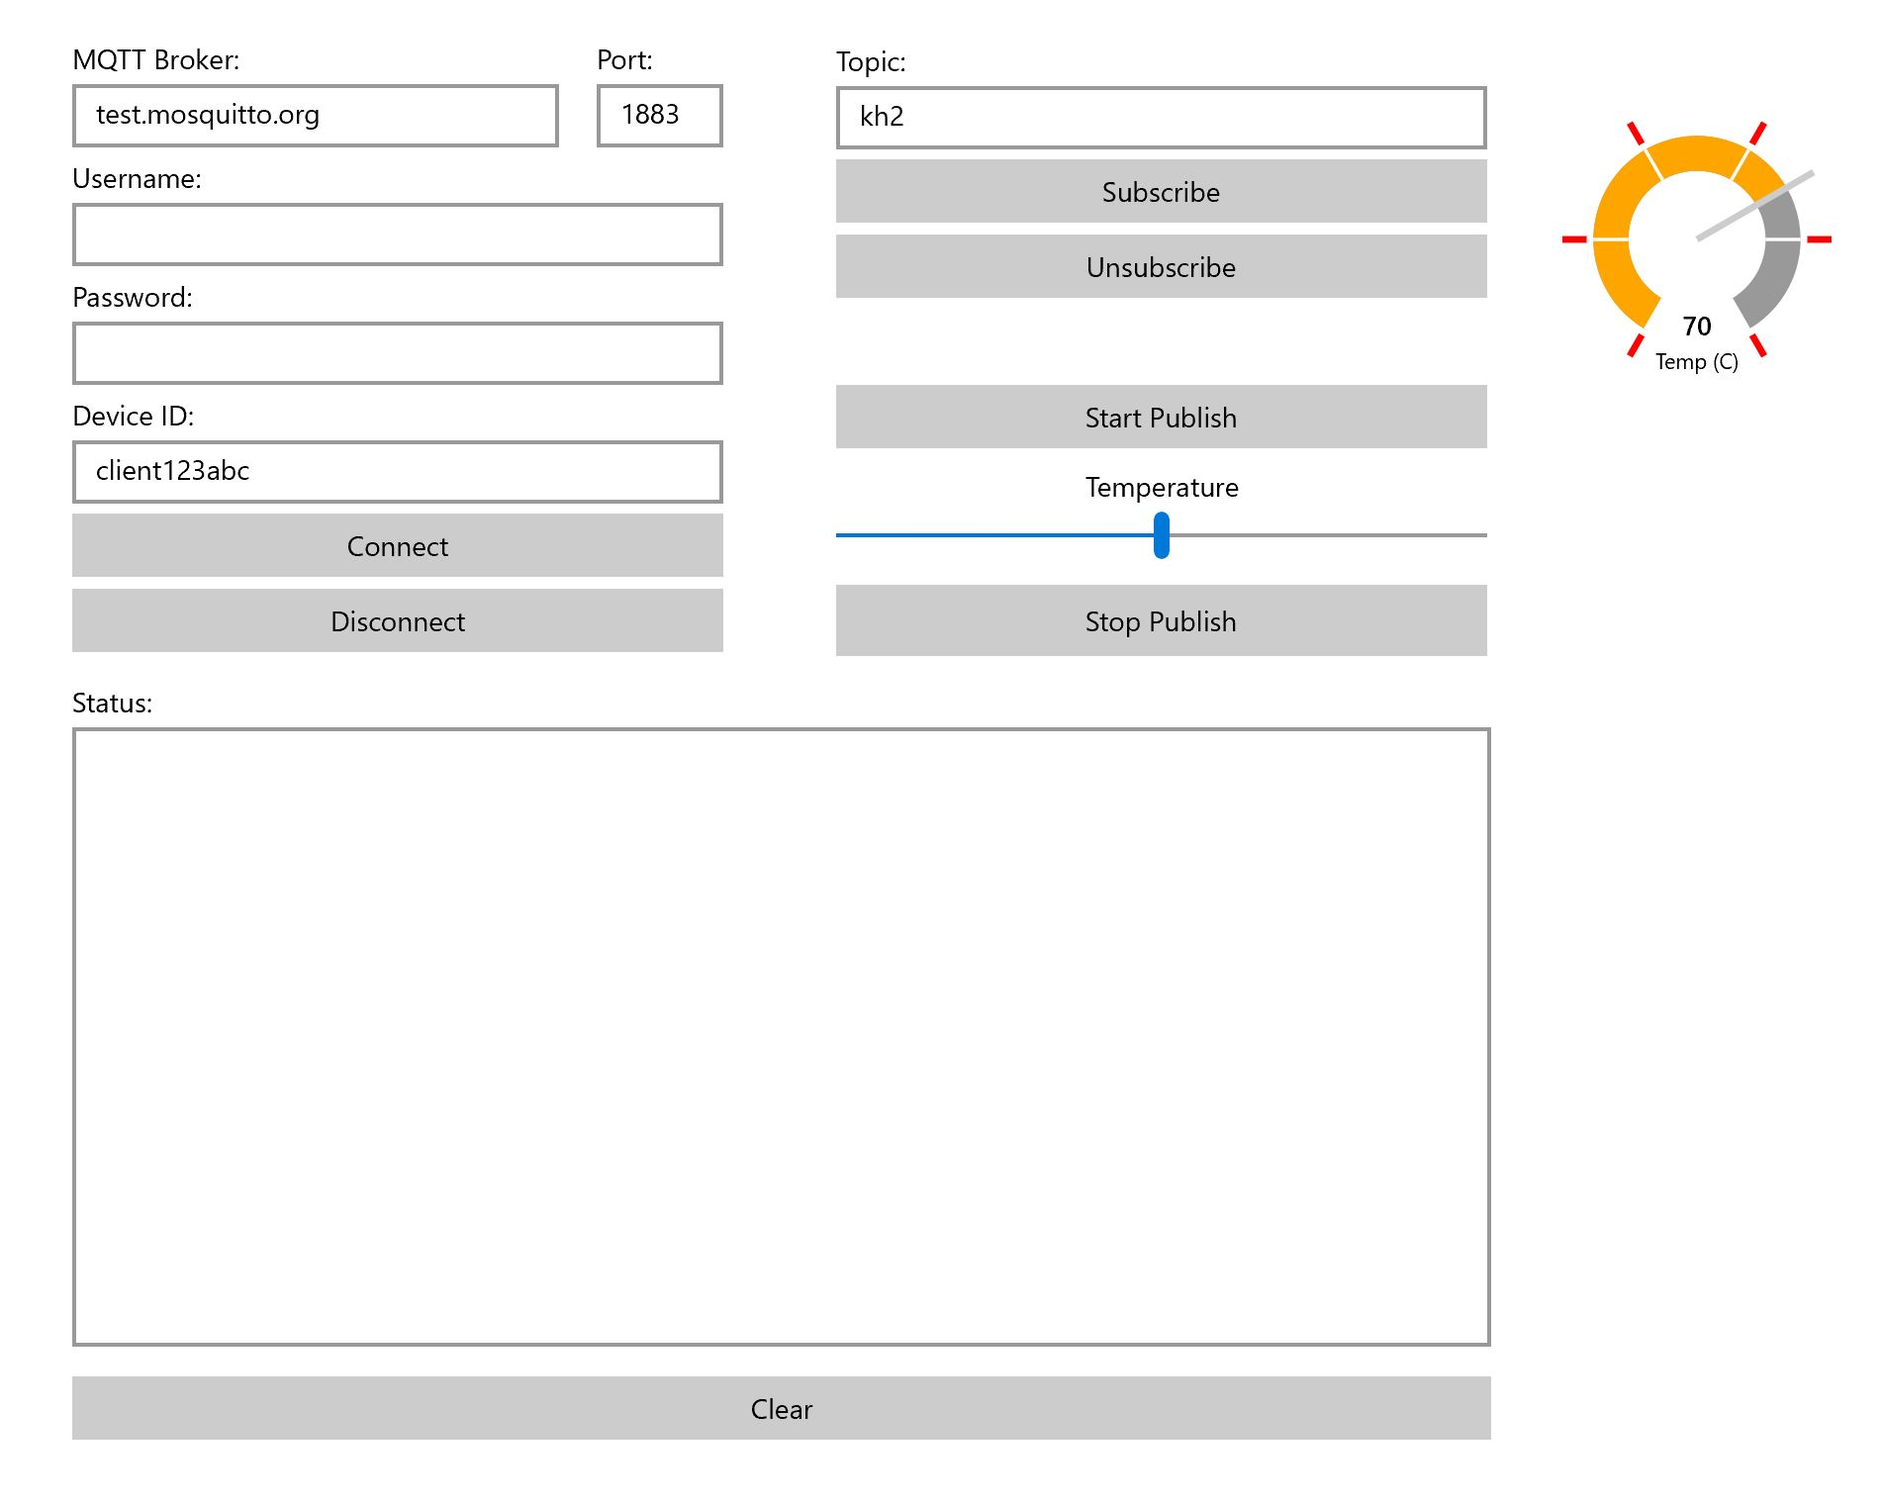
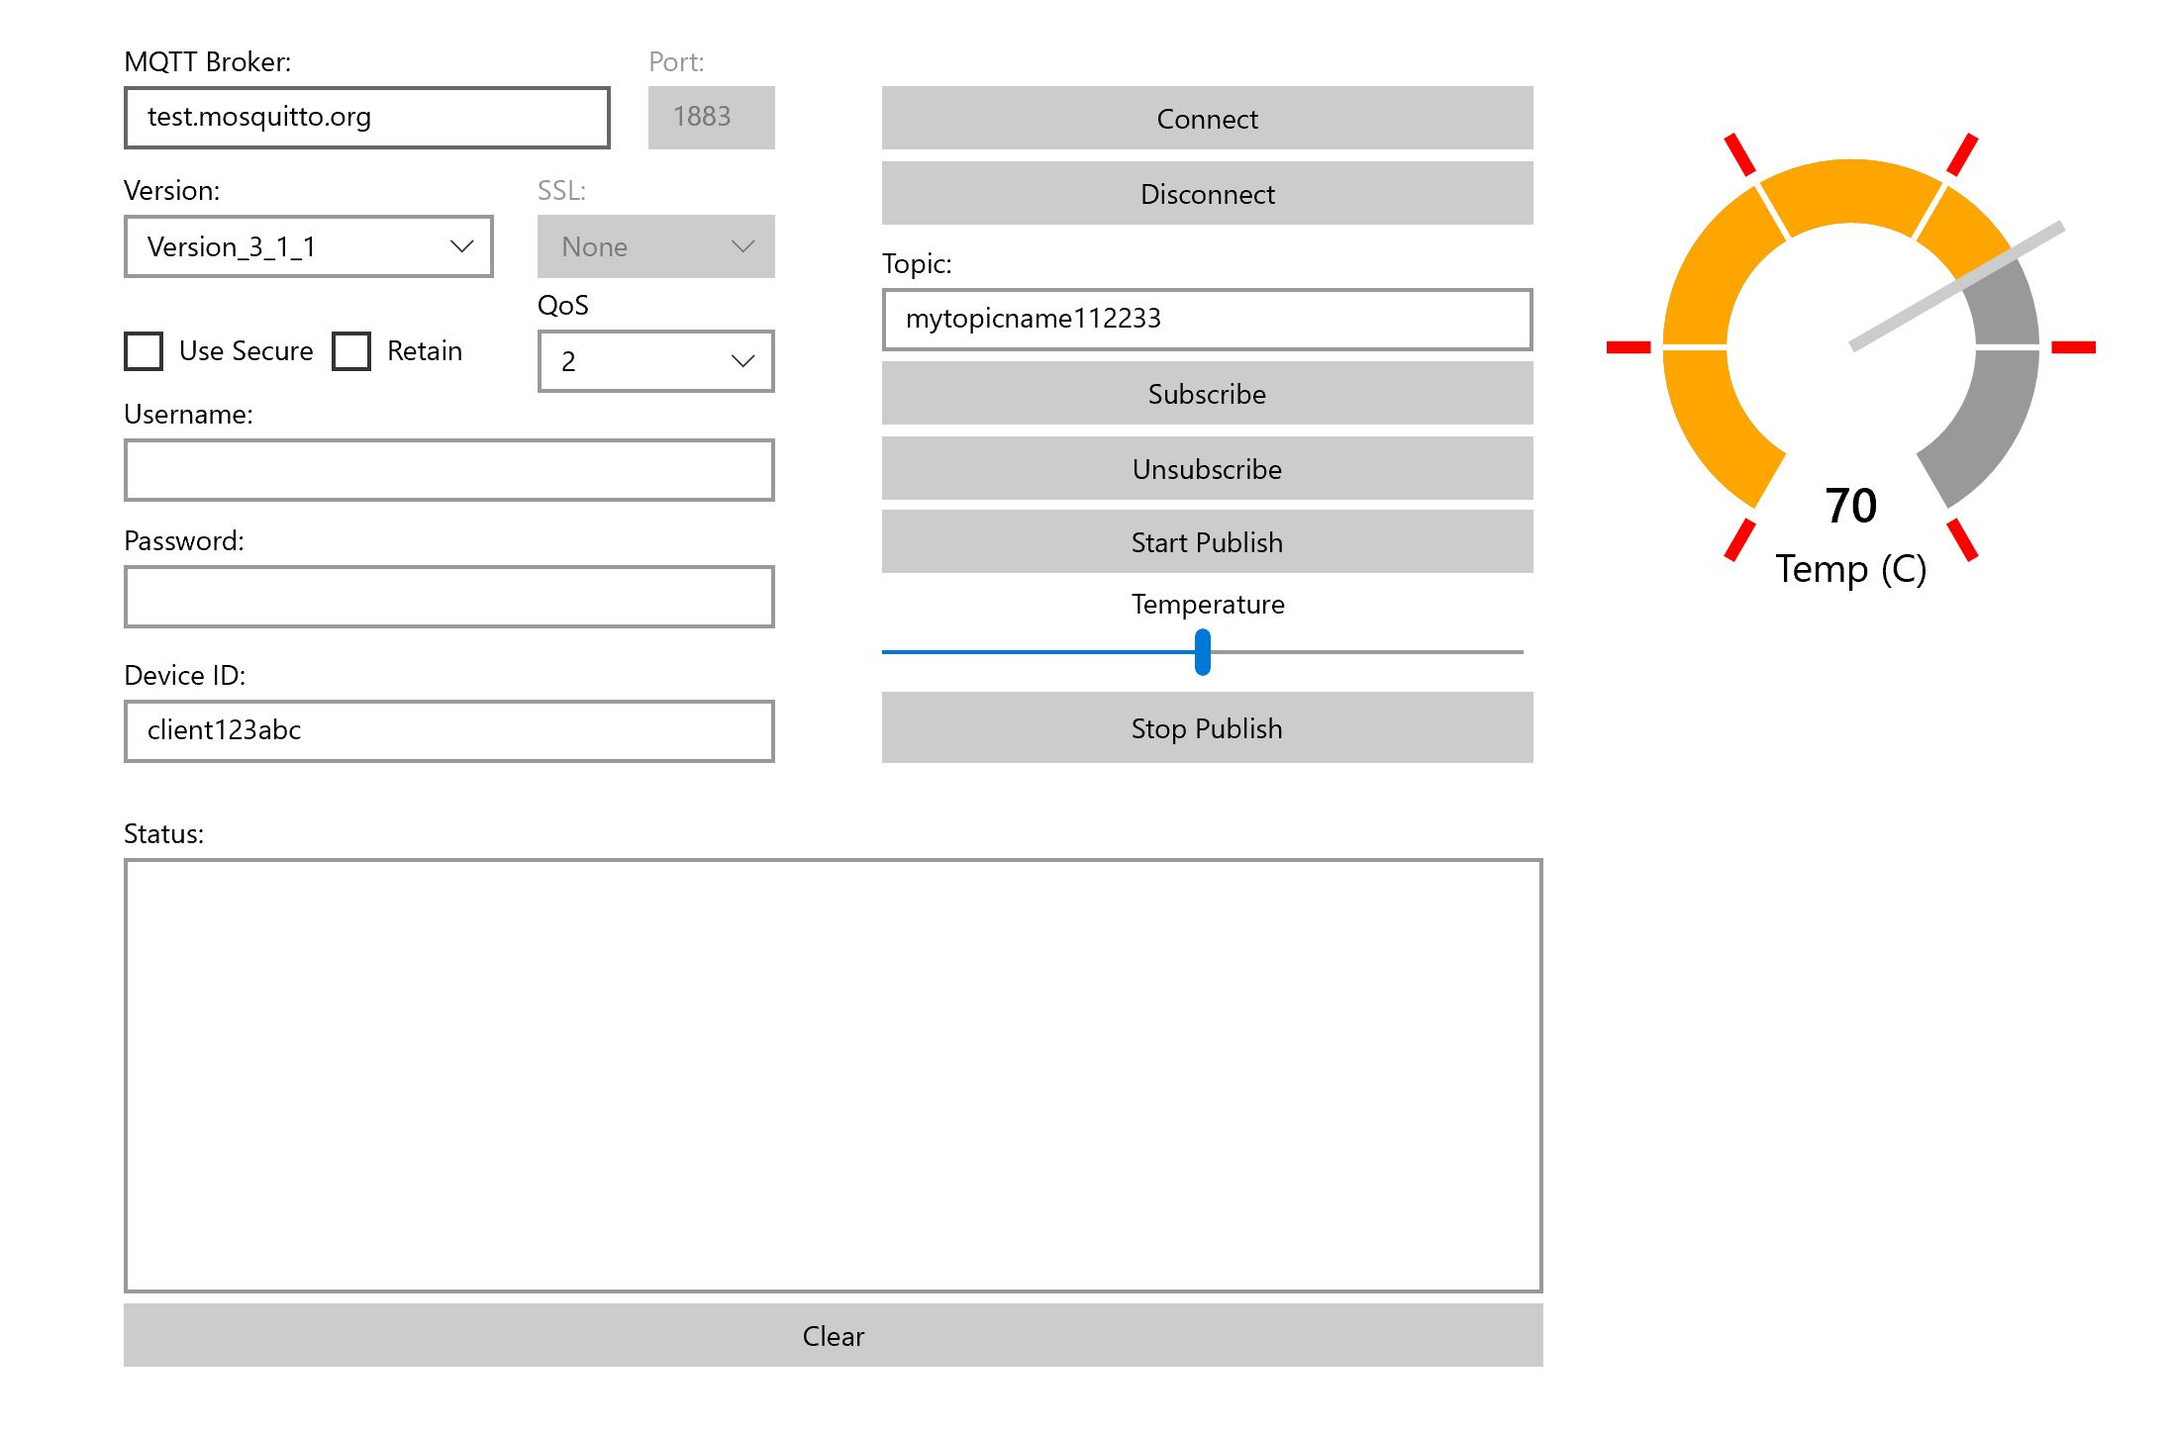
Added retain and OoS support

Changed region(s): [[0.031, 0.0311, 0.9606, 0.5602], [0.031, 0.5602, 0.8057, 0.9647], [0.6817, 0.5913, 0.7127, 0.6224]]

diff --git a/MQTT/MainPage.xaml b/MQTT/MainPage.xaml
@@ -10,28 +10,33 @@
     Background="{ThemeResource ApplicationPageBackgroundThemeBrush}">
 
     <Grid>
-        <Button x:Name="btnConnect" Content="Connect" Margin="141,297,0,0" VerticalAlignment="Top" Click="btnConnect_Click" Width="329"/>
+        <Button x:Name="btnConnect" Content="Connect" Margin="524,80,0,0" VerticalAlignment="Top" Click="btnConnect_Click" Width="329" Height="32"/>
         <TextBox x:Name="txtBoxMqttBroker" HorizontalAlignment="Left" Height="55" Margin="141,57,0,0" Text="test.mosquitto.org" TextWrapping="Wrap" VerticalAlignment="Top" Width="246" Header="MQTT Broker:"/>
         <TextBox x:Name="txtBoxMqttPort" HorizontalAlignment="Left" Height="55" Margin="406,57,0,0" Text="1883" TextWrapping="Wrap" VerticalAlignment="Top" Width="64" Header="Port:"/>
-        <TextBox x:Name="txtBoxUsername" HorizontalAlignment="Left" Height="55" Margin="141,117,0,0" Text="" TextWrapping="Wrap" VerticalAlignment="Top" Width="329" Header="Username:"/>
-        <TextBox x:Name="txtBoxPassword" HorizontalAlignment="Left" Height="55" Margin="141,177,0,0" Text="" TextWrapping="Wrap" VerticalAlignment="Top" Width="329" Header="Password:"/>
-        <TextBox x:Name="txtBoxDeviceID" HorizontalAlignment="Left" Height="55" Margin="141,237,0,0" Text="client123abc" TextWrapping="Wrap" VerticalAlignment="Top" Width="329" Header="Device ID:"/>
-        <TextBox x:Name="txtBoxTopic" HorizontalAlignment="Left" Height="55" Margin="527,58,0,0" Text="kh2" TextWrapping="Wrap" VerticalAlignment="Top" Width="329" Header="Topic:"/>
-        <TextBox x:Name="txtBoxStatus" HorizontalAlignment="Left" Height="336" Margin="141,382,0,0" Text="" TextWrapping="Wrap" VerticalAlignment="Top" Width="717" Header="Status:" IsTabStop="False" ScrollViewer.VerticalScrollBarVisibility="Visible" TextChanged="txtBoxStatus_TextChanged"/>
-        <Button x:Name="btnClear" Content="Clear" Height="32" Margin="141,733,0,0" VerticalAlignment="Top" Width="717" Click="btnClear_Click" IsTabStop="False"/>
-        <Button x:Name="btnPublish" Content="Start Publish" Height="32" Margin="527,232,0,0" VerticalAlignment="Top" Width="329" Click="btnPublish_Click"/>
-        <Button x:Name="btnSubscribe" Content="Subscribe" Height="32" Margin="527,118,0,0" VerticalAlignment="Top" Width="329" Click="btnSubscribe_Click"/>
-        <Button x:Name="btnDisconnect" Content="Disconnect" Height="32" Margin="141,335,0,0" VerticalAlignment="Top" Width="329" Click="btnDisconnect_Click"/>
-        <Button x:Name="btnUnsubscribe" Content="Unsubscribe" Height="32" Margin="527,156,0,0" VerticalAlignment="Top" Width="329" Click="btnUnsubscribe_Click"/>
-        <Button x:Name="btnStopPublish" Content="Stop Publish" Height="36" Margin="527,333,0,0" VerticalAlignment="Top" Width="329" Click="btnStopPublish_Click" RenderTransformOrigin="0.505,2.056"/>
+        <TextBox x:Name="txtBoxUsername" HorizontalAlignment="Left" Height="55" Margin="141,235,0,0" Text="" TextWrapping="Wrap" VerticalAlignment="Top" Width="329" Header="Username:"/>
+        <TextBox x:Name="txtBoxPassword" HorizontalAlignment="Left" Height="55" Margin="141,299,0,0" Text="" TextWrapping="Wrap" VerticalAlignment="Top" Width="329" Header="Password:"/>
+        <TextBox x:Name="txtBoxDeviceID" HorizontalAlignment="Left" Height="55" Margin="141,367,0,0" Text="client123abc" TextWrapping="Wrap" VerticalAlignment="Top" Width="329" Header="Device ID:"/>
+        <TextBox x:Name="txtBoxTopic" HorizontalAlignment="Left" Height="55" Margin="524,159,0,0" Text="mytopicname112233" TextWrapping="Wrap" VerticalAlignment="Top" Width="329" Header="Topic:"/>
+        <TextBox x:Name="txtBoxStatus" HorizontalAlignment="Left" Height="243" Margin="141,447,0,0" Text="" TextWrapping="Wrap" VerticalAlignment="Top" Width="717" Header="Status:" IsTabStop="False" ScrollViewer.VerticalScrollBarVisibility="Visible" TextChanged="txtBoxStatus_TextChanged"/>
+        <Button x:Name="btnClear" Content="Clear" Height="32" Margin="141,695,0,0" VerticalAlignment="Top" Width="717" Click="btnClear_Click" IsTabStop="False"/>
+        <Button x:Name="btnPublish" Content="Start Publish" Height="32" Margin="524,294,0,0" VerticalAlignment="Top" Width="329" Click="btnPublish_Click"/>
+        <Button x:Name="btnSubscribe" Content="Subscribe" Height="32" Margin="524,219,0,0" VerticalAlignment="Top" Width="329" Click="btnSubscribe_Click"/>
+        <Button x:Name="btnDisconnect" Content="Disconnect" Height="32" Margin="524,118,0,0" VerticalAlignment="Top" Width="329" Click="btnDisconnect_Click"/>
+        <Button x:Name="btnUnsubscribe" Content="Unsubscribe" Height="32" Margin="524,257,0,0" VerticalAlignment="Top" Width="329" Click="btnUnsubscribe_Click"/>
+        <Button x:Name="btnStopPublish" Content="Stop Publish" Height="36" Margin="524,386,0,0" VerticalAlignment="Top" Width="329" Click="btnStopPublish_Click" RenderTransformOrigin="0.505,2.056"/>
 
         <controls:RadialGauge x:Name="RadialGaugeControl" Value="70" Minimum="0" 
 	        Maximum="100" TickSpacing="20" ScaleWidth="26" Unit="Temp (C)" TickBrush="Red"
 	        ScaleTickBrush="{ThemeResource ApplicationPageBackgroundThemeBrush}"
-	        NeedleWidth="5" TickLength="18" Margin="894,50,170,633" TrailBrush="Orange">
+	        NeedleWidth="5" TickLength="18" Margin="890,43,63,519" TrailBrush="Orange">
         </controls:RadialGauge>
-        <Slider x:Name="sliderTemp" Value="50" HorizontalAlignment="Left" Height="37" Margin="527,292,0,0" VerticalAlignment="Top" Width="329" ValueChanged="sliderTemp_ValueChanged"/>
-        <TextBlock x:Name="lblTemperature" HorizontalAlignment="Left" Margin="653,273,0,0" Text="Temperature" TextWrapping="Wrap" VerticalAlignment="Top"/>
+        <Slider x:Name="sliderTemp" Value="50" HorizontalAlignment="Left" Height="38" Margin="524,350,0,0" VerticalAlignment="Top" Width="324" ValueChanged="sliderTemp_ValueChanged"/>
+        <TextBlock x:Name="lblTemperature" HorizontalAlignment="Left" Margin="650,331,0,0" Text="Temperature" TextWrapping="Wrap" VerticalAlignment="Top" Height="19" Width="78"/>
+        <ComboBox x:Name="cboxProtocolVersion" Margin="141,122,0,0" Width="187" Header="Version:" Height="55"/>
+        <ComboBox x:Name="cboxSslVersion" Margin="350,122,0,0" Width="120" Header="SSL:" Height="55"/>
+        <CheckBox x:Name="ckboxUseSecure" Content="Use Secure" Margin="141,198,0,0" VerticalAlignment="Top" Checked="ckboxUseSecure_Checked" Unchecked="ckboxUseSecure_Unchecked"/>
+        <ComboBox x:Name="cboxQoS" Margin="350,180,0,0" Width="120" Header="QoS" ToolTipService.ToolTip="0=At Most Once, 1=At Least Once, 2=Exactly Once"/>
+        <CheckBox x:Name="chkBoxRetain" Content="Retain" Margin="246,198,0,0" VerticalAlignment="Top"/>
 
 
 

diff --git a/MQTT/MainPage.xaml.cs b/MQTT/MainPage.xaml.cs
@@ -9,6 +9,10 @@ using Newtonsoft.Json;
 using System.Threading;
 using System.Threading.Tasks;
 using MQTT.Models;
+using System.Linq;
+using Microsoft.Toolkit.Uwp.UI.Controls.TextToolbarSymbols;
+using System.Collections.Generic;
+using Windows.UI.Composition;
 
 namespace MQTT
 {
@@ -30,72 +34,120 @@ namespace MQTT
         private string topic;
         private bool publish = false;
         private double temp;
+        private byte qos;
+        private bool retain;
+        private bool cleansession;
+        private ushort keepalive;
 
         public MainPage()
         {
             this.InitializeComponent();
+
+            // Add items in the combo boxes
+            var protocollist = Enum.GetValues(typeof(MqttProtocolVersion)).Cast<MqttProtocolVersion>().ToList();
+            cboxProtocolVersion.ItemsSource = protocollist;
+            cboxProtocolVersion.SelectedIndex = protocollist.Count - 1;
+            cboxSslVersion.ItemsSource = Enum.GetValues(typeof(MqttSslProtocols)).Cast<MqttSslProtocols>().ToList();
+
+            List<byte> QoS = new List<byte>();
+            QoS.Add(0);
+            QoS.Add(1);
+            QoS.Add(2);
+            cboxQoS.ItemsSource = QoS;
+
+            // Set some reasonable defaults
+            cboxProtocolVersion.SelectedIndex = 1;
+            cboxSslVersion.SelectedIndex = 0;
+            cboxQoS.SelectedIndex = 2;
+
+            txtBoxMqttPort.IsEnabled = false;
+            cboxSslVersion.IsEnabled = false;
         }
 
         private void btnConnect_Click(object sender, RoutedEventArgs e)
         {
+
+            if(cboxQoS.SelectedItem == null)
+            {
+                // Missing QoS level
+                NotifyUser("Select QoS level");
+                return;
+            }
+            
+            if(cboxProtocolVersion.SelectedItem == null)
+            {
+                // Missing MQTT version
+                NotifyUser("Select a protocol version.");
+                return;
+            }
+
+            if(cboxSslVersion.SelectedItem == null)
+            {
+                // Missing SSL version
+                NotifyUser("Select a SSL version.");
+                return;
+            }
 
             var broker = txtBoxMqttBroker.Text.Trim();
             if (broker.Length == 0)
             {
                 // Missing broker
                 NotifyUser("Enter a hostname for the MQTT broker.");
+                return;
             }
-            else
+
+            int port = -1;
+            if (!(int.TryParse(txtBoxMqttPort.Text.Trim(), out port)))
             {
-                int port = -1;
-                if (!(int.TryParse(txtBoxMqttPort.Text.Trim(), out port)))
-                {
-                    // Invalid port
-                    NotifyUser("Enter a valid port number");
-                }
-                else
-                {
+                // Invalid port
+                NotifyUser("Enter a valid port number");
+                return;
+            }
 
-                    if (txtBoxTopic.Text.Trim().Length == 0)
-                    {
-                        // Invalid topic
-                        NotifyUser("Enter a valid topic");
-                    }
-                    else
-                    {
-                        // Parse the input values
-                        var sslprotocol = (MqttSslProtocols)Enum.Parse(typeof(MqttSslProtocols), "None");
-                        var protocolversion = (MqttProtocolVersion)Enum.Parse(typeof(MqttProtocolVersion), "Version_3_1_1");
+            if (txtBoxTopic.Text.Trim().Length == 0)
+            {
+                // Invalid topic
+                NotifyUser("Enter a valid topic");
+                return;
+            }
+
+            // Parse the input values
+            var sslprotocol = (MqttSslProtocols)Enum.Parse(typeof(MqttSslProtocols), cboxSslVersion.SelectedItem.ToString());
+            var protocolversion = (MqttProtocolVersion)Enum.Parse(typeof(MqttProtocolVersion), cboxProtocolVersion.SelectedItem.ToString());
                         
-                        // Connect to Mqtt Broker
-                        try
-                        {
-                            this.broker = txtBoxMqttBroker.Text;
-                            this.clientId = txtBoxDeviceID.Text;
-                            this.port = port;
-                            this.secure = false;
-                            this.sslprotocol = sslprotocol;
-                            this.protocolversion = protocolversion;
-                            this.username = txtBoxUsername.Text;
-                            this.password = txtBoxPassword.Text;
+            // Connect to Mqtt Broker
+            try
+            {
+                this.broker = txtBoxMqttBroker.Text;
+                this.clientId = txtBoxDeviceID.Text;
+                this.port = port;
+                this.secure = ckboxUseSecure.IsChecked.Value;
+                this.sslprotocol = sslprotocol;
+                this.protocolversion = protocolversion;
+                this.username = txtBoxUsername.Text;
+                this.password = txtBoxPassword.Text;
+                this.qos = (byte)cboxQoS.SelectedValue;
+                this.retain = chkBoxRetain.IsChecked.Value;
+                this.cleansession = false; // http://www.steves-internet-guide.com/mqtt-clean-sessions-example/
+                this.keepalive = 60; // 60 seconds http://www.steves-internet-guide.com/mqtt-keep-alive-by-example/
 
-                            client = new MqttClient(this.broker, this.port, this.secure, this.sslprotocol);
-                            client.ProtocolVersion = this.protocolversion;
+                client = new MqttClient(this.broker, this.port, this.secure, this.sslprotocol);
 
-                            // Callback for message subscription
-                            client.MqttMsgPublishReceived += _client_MqttMsgPublishReceived;
+                // Set MQTT version
+                client.ProtocolVersion = this.protocolversion;
 
-                            // MQTT return codes https://www.hivemq.com/blog/mqtt-essentials-part-3-client-broker-connection-establishment/
-                            // https://www.eclipse.org/paho/clients/dotnet/api/html/4158a883-de72-1ec4-2209-632a86aebd74.htm
-                            byte resp = client.Connect(this.clientId, this.username, this.password);
-                            NotifyUser("Connect() Response: " + resp.ToString());
-                        }
-                        catch (Exception ex)
-                        {
-                            NotifyUser(ex.Message + ": " + ex.InnerException);
-                        }
-                    }
-                }
+                // Setup callback for receiving messages
+                client.MqttMsgPublishReceived += _client_MqttMsgPublishReceived;
+
+                // MQTT return codes 
+                // https://www.hivemq.com/blog/mqtt-essentials-part-3-client-broker-connection-establishment/
+                // https://www.eclipse.org/paho/clients/dotnet/api/html/4158a883-de72-1ec4-2209-632a86aebd74.htm
+                byte resp = client.Connect(this.clientId, this.username, this.password, this.cleansession, this.keepalive);
+                NotifyUser("Connect() Response: " + resp.ToString());
+            }
+            catch (Exception ex)
+            {
+                NotifyUser(ex.Message + ": " + ex.InnerException);
             }
         }
 
@@ -142,9 +194,7 @@ namespace MQTT
         // Start publishing some random Mqtt messages
         private void btnPublish_Click(object sender, RoutedEventArgs e)
         {
-            
             var task = Task.Run(() => Publish());
-
         }
 
         // Generate some random data and publish
@@ -156,16 +206,14 @@ namespace MQTT
             {
                 while (publish)
                 {
-                    //Random rnd = new Random();
 
                     var msgObj = new
                     {
-                        //temperature = rnd.Next(20, 80),
                         temperature = temp
                     };
 
                     string message = JsonConvert.SerializeObject(msgObj);
-                    ushort resp = client.Publish(this.topic, System.Text.Encoding.UTF8.GetBytes(message), 0, true);
+                    ushort resp = client.Publish(this.topic, System.Text.Encoding.UTF8.GetBytes(message), this.qos, this.retain);
                     NotifyUser("Publish() Response: " + resp.ToString());
 
                     Thread.Sleep(200);
@@ -205,7 +253,7 @@ namespace MQTT
 
                 ushort resp = client.Subscribe(
                     new string[] { this.topic },
-                    new byte[] { MqttMsgBase.QOS_LEVEL_EXACTLY_ONCE });
+                    new byte[] { this.qos });
 
                 NotifyUser("Subscribe() Response: " + resp.ToString());
 
@@ -256,6 +304,22 @@ namespace MQTT
         private void sliderTemp_ValueChanged(object sender, Windows.UI.Xaml.Controls.Primitives.RangeBaseValueChangedEventArgs e)
         {
             temp = e.NewValue;
+        }
+
+        private void ckboxUseSecure_Checked(object sender, RoutedEventArgs e)
+        {
+            cboxSslVersion.IsEnabled = true;
+            txtBoxMqttPort.IsEnabled = true;
+            txtBoxMqttPort.Text = "8883";
+            cboxSslVersion.SelectedIndex = 4;
+        }
+
+        private void ckboxUseSecure_Unchecked(object sender, RoutedEventArgs e)
+        {
+            txtBoxMqttPort.IsEnabled = false;
+            txtBoxMqttPort.Text = "1883";
+            cboxSslVersion.IsEnabled = false;
+            cboxSslVersion.SelectedIndex = 0;
         }
     }
 }
